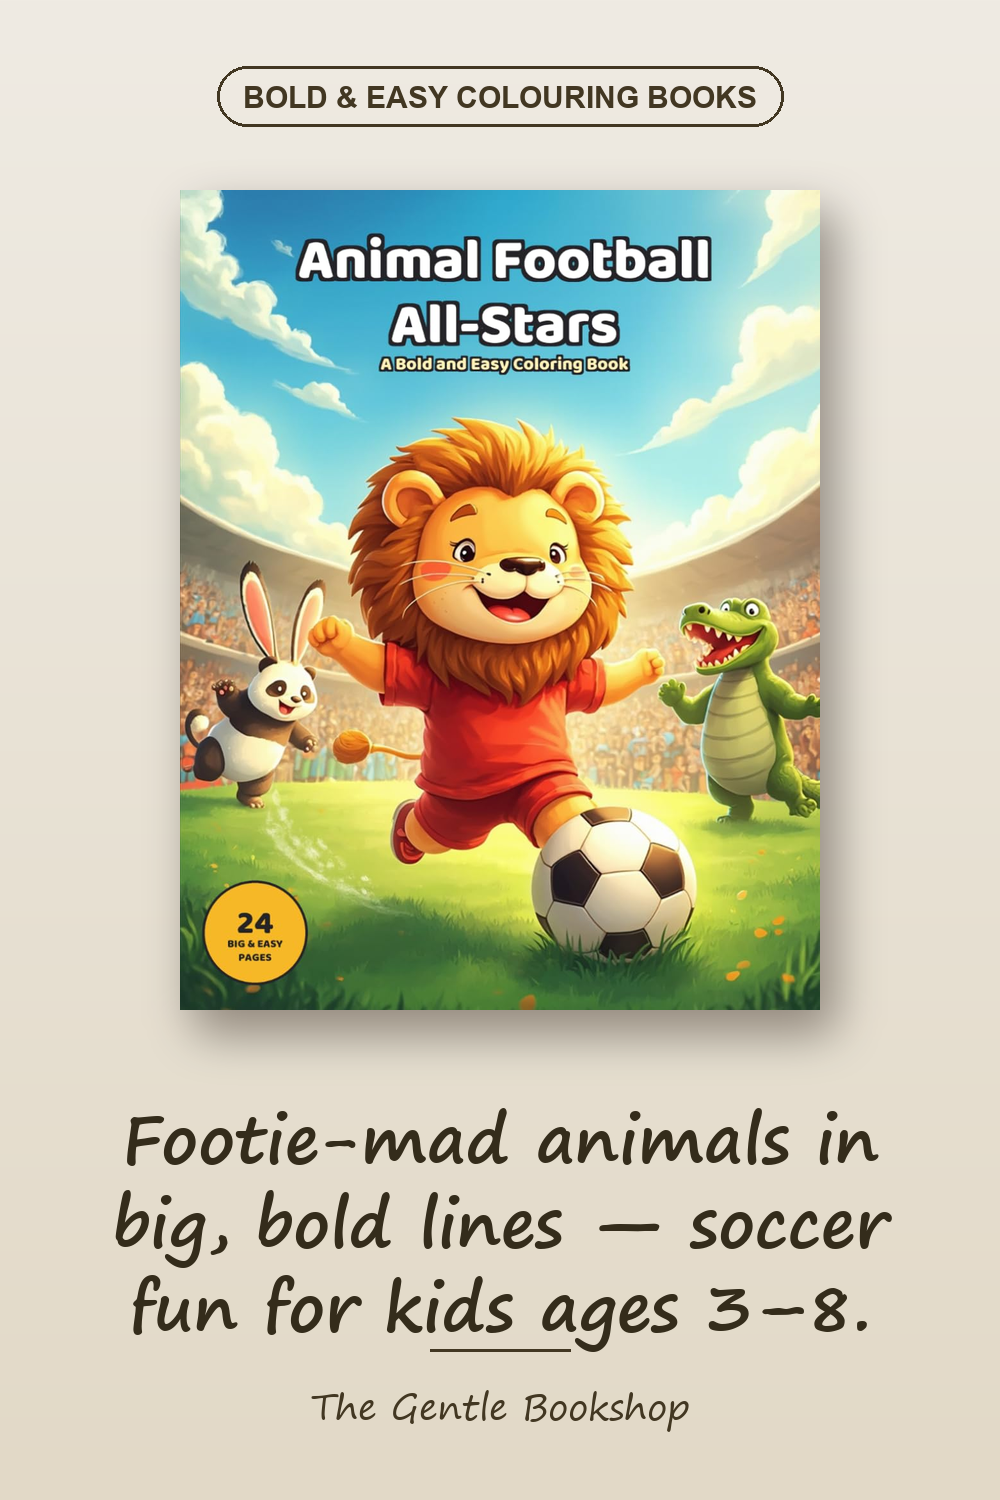
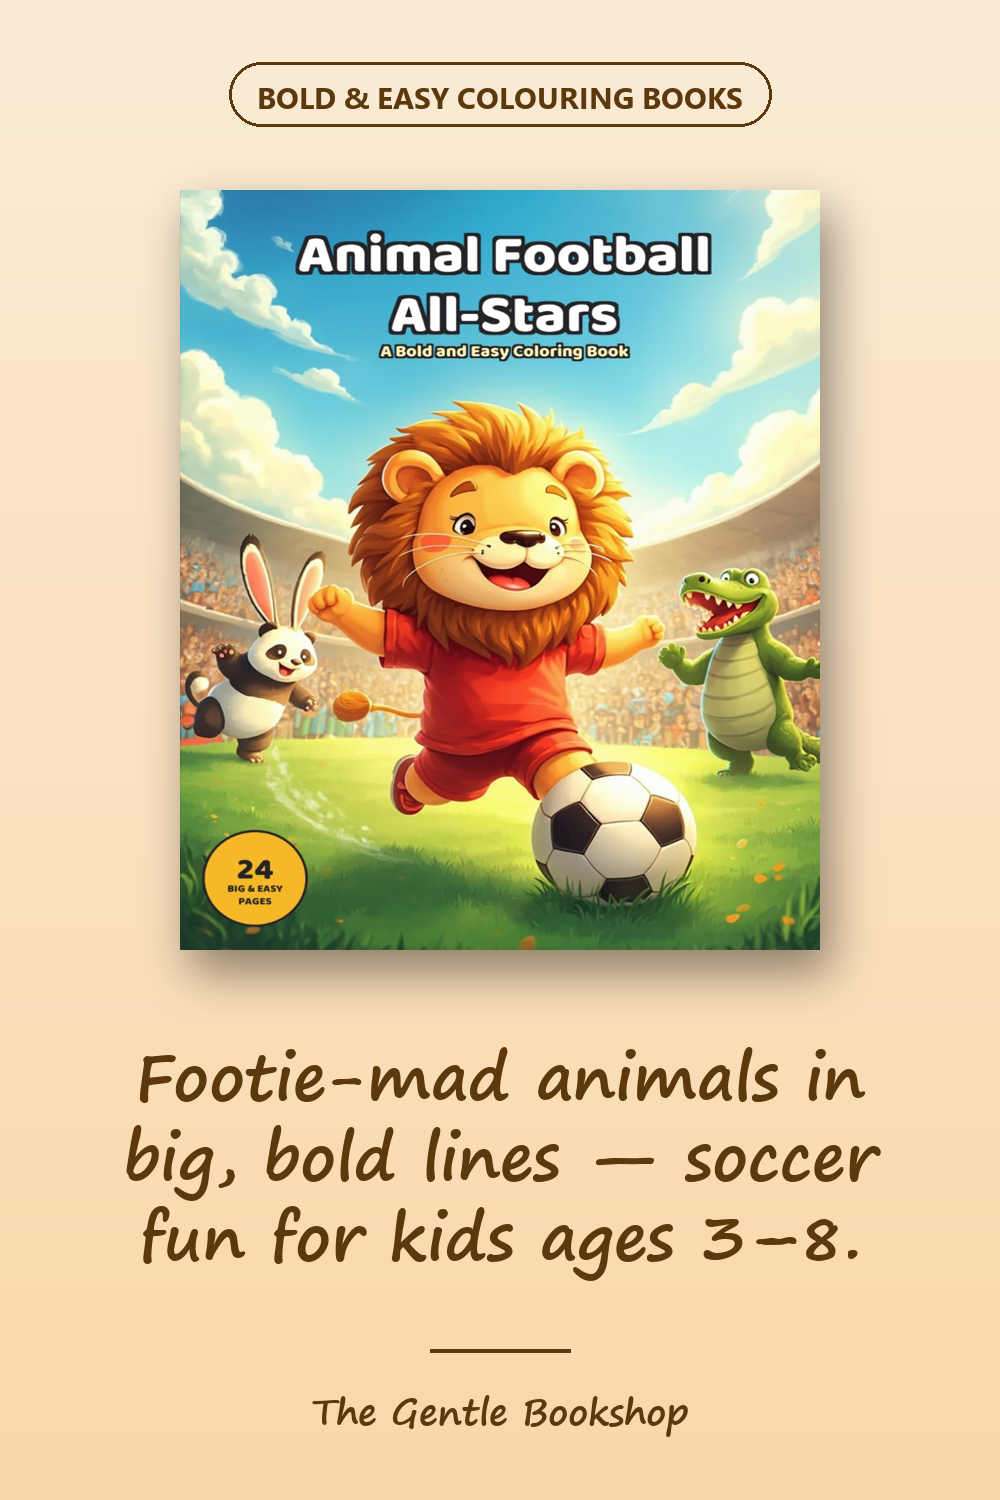
Pins v2 for all 40 books + pins.py generator
Claude-Session: https://claude.ai/code/session_01NvkfwxSSfH7pEG2jGoPuVp

diff --git a/pins.py b/pins.py
@@ -1,0 +1,91 @@
+"""Regenerate Pinterest pins for every book. Reads books.json + index.html (source of truth).
+  python pins.py            -> D:/recordings/bookshop-pins/v2/pin-<slug>.png (1000x1500) + pins.md + pins.csv
+"""
+import json, re, os, html, csv
+from PIL import Image, ImageDraw, ImageFilter, ImageFont
+
+SITE = 'D:/recordings/gentle-bookshop-site'
+OUT = 'D:/recordings/bookshop-pins/v2'
+BASE = 'https://ainjection.github.io/gentle-bookshop/books/'
+os.makedirs(OUT, exist_ok=True)
+books = json.load(open(f'{SITE}/books.json', encoding='utf-8'))
+index = open(f'{SITE}/index.html', encoding='utf-8').read()
+blurb = {}
+for m in re.finditer(r'<div class="book">(.*?)</div>', index, re.S):
+    c = m.group(1); a = re.search(r'/dp/([A-Z0-9]{10})', c); p = re.search(r'<p class="sans">(.*?)</p>', c, re.S)
+    if a and p: blurb[a.group(1)] = html.unescape(re.sub(r'\s+', ' ', re.sub(r'<[^>]+>', '', p.group(1)))).strip()
+
+F = 'C:/Windows/Fonts/'
+def font(name, size):
+    for f in (name, 'segoeuib.ttf'):
+        try: return ImageFont.truetype(F + f, size)
+        except Exception: pass
+    return ImageFont.load_default()
+
+def dominant(im):
+    small = im.convert('RGB').resize((60, 90))
+    best, score = (200, 150, 100), -1
+    for r, g, b in small.getdata():
+        mx, mn = max(r, g, b), min(r, g, b); sat = (mx - mn) / (mx + 1); lum = (r + g + b) / 3
+        s = sat * (1 - abs(lum - 140) / 200)
+        if s > score: score, best = s, (r, g, b)
+    return best
+
+def mix(c, w, t): return tuple(int(a * (1 - t) + b * t) for a, b in zip(c, w))
+
+def wrap(dr, text, fnt, maxw):
+    words, lines, cur = text.split(), [], ''
+    for w in words:
+        t = (cur + ' ' + w).strip()
+        if dr.textlength(t, font=fnt) <= maxw: cur = t
+        else: lines.append(cur); cur = w
+    if cur: lines.append(cur)
+    return lines
+
+rows = []
+for b in books:
+    cover = Image.open(f'{SITE}/assets/{b["cover"]}').convert('RGB')
+    col = dominant(cover)
+    W, H = 1000, 1500
+    bg = Image.new('RGB', (W, H))
+    top, bot = mix(col, (255, 255, 255), 0.82), mix(col, (255, 255, 255), 0.62)
+    px = bg.load()
+    for y in range(H):
+        c = mix(top, bot, y / H)
+        for x in range(W): px[x, y] = c
+    ink = mix(col, (0, 0, 0), 0.62)
+    dr = ImageDraw.Draw(bg)
+    # category pill
+    pf = font('segoeuib.ttf', 30); label = b['shelf_name'].upper().replace('&AMP;', '&')
+    tw = dr.textlength(label, font=pf); x0 = (W - tw) / 2 - 28
+    dr.rounded_rectangle((x0, 62, x0 + tw + 56, 126), radius=32, outline=ink, width=3)
+    dr.text(((W - tw) / 2, 76), label, font=pf, fill=ink)
+    # cover with shadow
+    cw = 640; ch = int(cover.height * cw / cover.width); ch = min(ch, 760); cv = cover.resize((cw, ch))
+    cx, cy = (W - cw) // 2, 190
+    sh = Image.new('RGBA', (W, H), (0, 0, 0, 0)); ImageDraw.Draw(sh).rectangle((cx + 10, cy + 22, cx + cw + 10, cy + ch + 22), fill=(0, 0, 0, 110))
+    sh = sh.filter(ImageFilter.GaussianBlur(22)); bg.paste(sh, (0, 0), sh); bg.paste(cv, (cx, cy))
+    # hook
+    hook = blurb.get(b['asin']) or b['tagline']
+    hf = font('segoeprb.ttf', 64); lines = wrap(dr, hook, hf, 860)
+    if len(lines) > 3: hf = font('segoeprb.ttf', 52); lines = wrap(dr, hook, hf, 880)
+    y = cy + ch + 70
+    for ln in lines:
+        dr.text(((W - dr.textlength(ln, font=hf)) / 2, y), ln, font=hf, fill=ink); y += int(hf.size * 1.25)
+    # footer
+    dr.line((430, H - 150, 570, H - 150), fill=ink, width=4)
+    ff = font('segoeprb.ttf', 36); t = 'The Gentle Bookshop'
+    dr.text(((W - dr.textlength(t, font=ff)) / 2, H - 120), t, font=ff, fill=ink)
+    bg.save(f'{OUT}/pin-{b["slug"]}.png', optimize=True)
+    rows.append((b['slug'], b['short'], hook + ' ' + b['tagline'] + ' Look inside every page on our site, then get it on Amazon.', BASE + b['slug'] + '.html', b['shelf_name']))
+    print('pin', b['slug'])
+
+with open(f'{OUT}/pins.md', 'w', encoding='utf-8') as f:
+    f.write('# Pinterest pins, one per book (paste title, description, link)\n\n')
+    for slug, title, desc, link, board in rows:
+        f.write(f'## pin-{slug}.png\nBoard: {board}\nTitle: {title}\nDescription: {desc}\nLink: {link}\n\n')
+with open(f'{OUT}/pins.csv', 'w', encoding='utf-8', newline='') as f:
+    w = csv.writer(f); w.writerow(['Title', 'Media URL', 'Pinterest board', 'Thumbnail', 'Description', 'Link', 'Publish date', 'Keywords'])
+    for slug, title, desc, link, board in rows:
+        w.writerow([title, f'https://ainjection.github.io/gentle-bookshop/pins/pin-{slug}.png', board, '', desc, link, '', ''])
+print(len(rows), 'pins')
